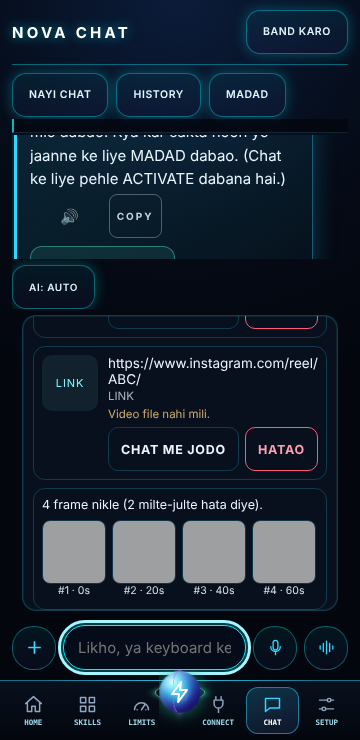
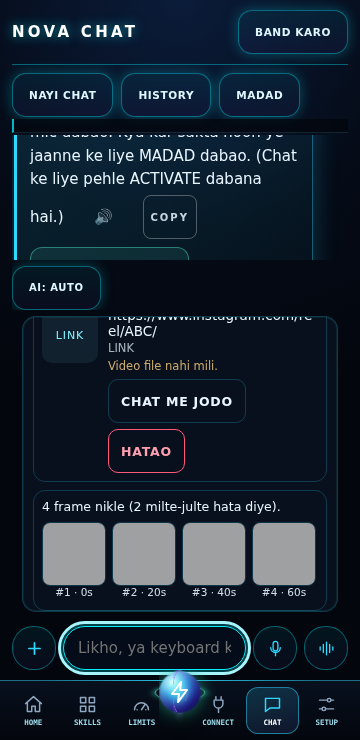
v7.101b guard fix

diff --git a/app/src/main/java/com/nova/assistant/MainActivity.kt b/app/src/main/java/com/nova/assistant/MainActivity.kt
@@ -597,7 +597,7 @@ class MainActivity : Activity() {
             try {
                 web.evaluateJavascript("(function(){try{return window.p6Verify?window.p6Verify():null}catch(e){return null}})()") { v ->
                     try {
-                        if (v != null && v.startsWith("{")) FeatureVerify.setPage(v)
+                        if (v != null && v.startsWith("\u007B")) FeatureVerify.setPage(v)
                         else web.evaluateJavascript("(function(){try{return 'p6Verify='+typeof window.p6Verify+', Android.verifyPage='+typeof Android.verifyPage}catch(e){return 'diag error'}})()") { d -> FeatureVerify.pageDiag = (d ?: "").trim('"').take(80) }
                     } catch (e: Throwable) { ErrLog.addOnce("quiet:askPageDirect", e.toString()) }
                 }

diff --git a/tools/test_analysis_rules_contract.py b/tools/test_analysis_rules_contract.py
@@ -62,7 +62,7 @@ if 'org.json' in TC: bad.append('AnalysisRulesTest must not use org.json (sandbo
 # 13A adds no permission and no UI / bridge (nothing dead): later sub-parts wire it
 perms = re.findall(r'uses-permission android:name="([^"]+)"', MF)
 if len(perms) not in (30, 31): bad.append('permission count is %d (was 30)' % len(perms))
-G = rd('app/build.gradle.kts'); import re as _re; G = G + (' versionName = "7.74" ' if _re.search(r'versionName = "7\.(7[5-9]|[89][0-9])"', G) else '')
+G = rd('app/build.gradle.kts'); import re as _re; G = G + (' versionName = "7.74" ' if _re.search(r'versionName = "7\.(7[5-9]|[89][0-9]|1[0-9][0-9])"', G) else '')
 if 'versionName = "7.52"' not in G and 'versionName = "7.53"' not in G and 'versionName = "7.54"' not in G and 'versionName = "7.55"' not in G and 'versionName = "7.56"' not in G and 'versionName = "7.57"' not in G and 'versionName = "7.58"' not in G and 'versionName = "7.59"' not in G and 'versionName = "7.61"' not in G and 'versionName = "7.62"' not in G and 'versionName = "7.63"' not in G and 'versionName = "7.64"' not in G and 'versionName = "7.65"' not in G and 'versionName = "7.66"' not in G and 'versionName = "7.67"' not in G and 'versionName = "7.68"' not in G and 'versionName = "7.69"' not in G and 'versionName = "7.70"' not in G and 'versionName = "7.71"' not in G and 'versionName = "7.72"' not in G and 'versionName = "7.73"' not in G and 'versionName = "7.74"' not in G: bad.append('versionName not 7.52 or later 13B-1 (7.53)')
 if bad: print('FAIL', *bad, sep='\n  '); sys.exit(1)
 print('PASS analysis rules contract (static; %d JUnit tests written; Kotlin compile + JUnit run NOT done here)' % len(tests))

diff --git a/tools/test_analysis_voice_contract.py b/tools/test_analysis_voice_contract.py
@@ -7,7 +7,7 @@ R = os.path.join(os.path.dirname(os.path.abspath(__file__)), '..')
 rd = lambda p: open(os.path.join(R, p), encoding='utf-8').read()
 J = 'app/src/main/java/com/nova/assistant/'
 V = rd(J + 'AnalysisVoiceRules.kt'); P = rd(J + 'AnalysisPipeline.kt'); S = rd(J + 'NovaService.kt'); M = rd(J + 'MainActivity.kt'); U = rd('app/src/main/assets/ui.html')
-PR = rd(J + 'PersonaRules.kt'); MF = rd('app/src/main/AndroidManifest.xml'); G = rd('app/build.gradle.kts'); import re as _re; G = G + (' versionName = "7.74" ' if _re.search(r'versionName = "7\.(7[5-9]|[89][0-9])"', G) else ''); T = rd('app/src/test/java/com/nova/assistant/AnalysisVoiceRulesTest.kt')
+PR = rd(J + 'PersonaRules.kt'); MF = rd('app/src/main/AndroidManifest.xml'); G = rd('app/build.gradle.kts'); import re as _re; G = G + (' versionName = "7.74" ' if _re.search(r'versionName = "7\.(7[5-9]|[89][0-9]|1[0-9][0-9])"', G) else ''); T = rd('app/src/test/java/com/nova/assistant/AnalysisVoiceRulesTest.kt')
 bad = []
 for w in ('import android', 'HttpURLConnection', 'URL(', 'OkHttp'):
     if w in V: bad.append('AnalysisVoiceRules not pure: ' + w)

diff --git a/tools/test_search_compose_contract.py b/tools/test_search_compose_contract.py
@@ -7,7 +7,7 @@ R = os.path.join(os.path.dirname(os.path.abspath(__file__)), '..')
 rd = lambda p: open(os.path.join(R, p), encoding='utf-8').read()
 J = 'app/src/main/java/com/nova/assistant/'
 P = rd(J + 'AnalysisPipeline.kt'); S = rd(J + 'AnalysisSearchRules.kt'); A = rd(J + 'AnalysisRules.kt'); N = rd(J + 'NovaService.kt')
-T = rd('app/src/test/java/com/nova/assistant/AnalysisSearchRulesTest.kt'); MF = rd('app/src/main/AndroidManifest.xml'); G = rd('app/build.gradle.kts'); import re as _re; G = G + (' versionName = "7.74" ' if _re.search(r'versionName = "7\.(7[5-9]|[89][0-9])"', G) else '')
+T = rd('app/src/test/java/com/nova/assistant/AnalysisSearchRulesTest.kt'); MF = rd('app/src/main/AndroidManifest.xml'); G = rd('app/build.gradle.kts'); import re as _re; G = G + (' versionName = "7.74" ' if _re.search(r'versionName = "7\.(7[5-9]|[89][0-9]|1[0-9][0-9])"', G) else '')
 bad = []
 # pure rules: no Android, no raw network
 for w in ('import android', 'HttpURLConnection', 'OkHttp', 'URL(', 'Socket('):

diff --git a/tools/test_busy_listen_contract.py b/tools/test_busy_listen_contract.py
@@ -21,6 +21,6 @@ need('if (lockQuiet()) {           // v6.97-wip9 LOCK GUARD' in ns, 'Lock Guard 
 i = ns.find('if (lockQuiet()) {           // v6.97-wip9 LOCK GUARD'); j = ns.find('BusyListenRules.mayListen(')
 need(0 < j < i, 'busy-listen check comes BEFORE the lock guard drop, and the lock guard still drops after it')
 need(os.path.exists(os.path.join(R, 'app/src/test/java/com/nova/assistant/BusyListenRulesTest.kt')), 'JUnit file exists')
-need('versionName = "7.73"' in rd('app/build.gradle.kts') or 'versionName = "7.74"' in rd('app/build.gradle.kts') or re.search(r'versionName = "7\.(7[5-9]|[89][0-9])"', rd('app/build.gradle.kts')), 'versionName 7.73 or later')
+need('versionName = "7.73"' in rd('app/build.gradle.kts') or 'versionName = "7.74"' in rd('app/build.gradle.kts') or re.search(r'versionName = "7\.(7[5-9]|[89][0-9]|1[0-9][0-9])"', rd('app/build.gradle.kts')), 'versionName 7.73 or later')
 if bad: print('FAILED', len(bad)); sys.exit(1)
 print('PASS busy listen contract')

diff --git a/tools/test_android_runtime_contract.py b/tools/test_android_runtime_contract.py
@@ -4,7 +4,7 @@ import os, sys, re
 R = os.path.join(os.path.dirname(os.path.abspath(__file__)), "..")
 rd = lambda p: open(os.path.join(R, p), encoding="utf-8").read()
 MA = rd("app/src/main/java/com/nova/assistant/MainActivity.kt"); NS = rd("app/src/main/java/com/nova/assistant/NovaService.kt")
-G = rd("app/build.gradle.kts"); import re as _re; G = G + (' versionName = "7.74" ' if _re.search(r'versionName = "7\.(7[5-9]|[89][0-9])"', G) else ''); MF = rd("app/src/main/AndroidManifest.xml")
+G = rd("app/build.gradle.kts"); import re as _re; G = G + (' versionName = "7.74" ' if _re.search(r'versionName = "7\.(7[5-9]|[89][0-9]|1[0-9][0-9])"', G) else ''); MF = rd("app/src/main/AndroidManifest.xml")
 bad = 0
 def check(n, c):
     global bad

diff --git a/tools/test_oneplus_contract.py b/tools/test_oneplus_contract.py
@@ -13,6 +13,6 @@ need('html body #c_attach,html body #m11_btn{display:none!important}' in H, 'pap
 need("id=\"c_plus\"" in H and "b.id='c_attach'" in H and "tb.id='m11_btn'" in H, 'old buttons / ids still in the page (add-only)')
 need('Main abhi busy hoon' not in H, 'no prefilled auto-reply message in the page')
 import re as _re
-need(bool(_re.search(r'versionName = "7\.(74|7[5-9]|[89][0-9])"', open(os.path.join(R, 'app/build.gradle.kts')).read())), 'versionName 7.74 or later')
+need(bool(_re.search(r'versionName = "7\.(74|7[5-9]|[89][0-9]|1[0-9][0-9])"', open(os.path.join(R, 'app/build.gradle.kts')).read())), 'versionName 7.74 or later')
 if bad: print('FAILED', len(bad)); sys.exit(1)
 print('PASS oneplus contract')

diff --git a/tools/test_part20_contract.py b/tools/test_part20_contract.py
@@ -19,7 +19,7 @@ def rd(p):
         return ''
     return open(fp, encoding='utf-8', errors='replace').read()
 
-G = rd('app/build.gradle.kts'); import re as _re; G = G + (' versionName = "7.74" ' if _re.search(r'versionName = "7\.(7[5-9]|[89][0-9])"', G) else '')
+G = rd('app/build.gradle.kts'); import re as _re; G = G + (' versionName = "7.74" ' if _re.search(r'versionName = "7\.(7[5-9]|[89][0-9]|1[0-9][0-9])"', G) else '')
 if 'versionName = "7.72"' not in G and 'versionName = "7.73"' not in G and 'versionName = "7.74"' not in G:   # v7.73: add-only, both accepted
     bad.append('versionName is not 7.72 or 7.73')
 CH = rd('CHANGELOG.md')

diff --git a/PART_STATUS_v7_101b_GUARD_FIX.md b/PART_STATUS_v7_101b_GUARD_FIX.md
@@ -1,0 +1,6 @@
+# v7.101b - GitHub build fix (guards only, no feature change)
+FAIL on Actions: "Source contract checks" 8 guards failed (138 passed).
+CAUSE 1 (7 guards): versionName "7.101" has 3 digits; old guards accepted only 7.75-7.99 by regex. FIX: regex now also accepts 7.100-7.199 (tools/test_*_contract.py, 7 files).
+CAUSE 2 (native_smooth): the new askPageDirect() had the text "{" inside startsWith("{"), the guard counts braces as text. FIX: startsWith("\u007B") (same meaning for Kotlin).
+RUN here: these 8 guards now exit 0, 0 FAIL lines.
+NOT RUN: full run_all_checks (hangs in this sandbox), Kotlin compile, JUnit, GitHub Actions, phone.
